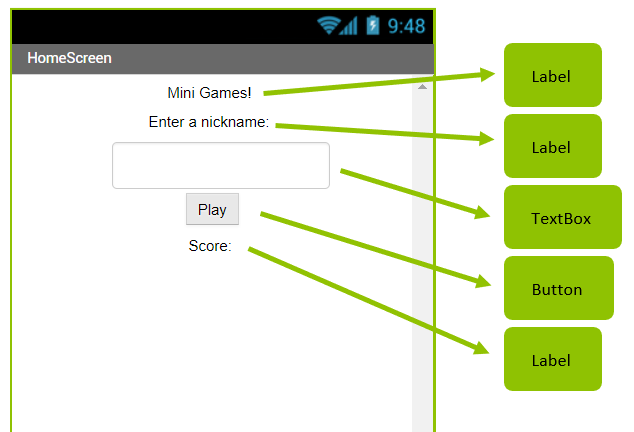
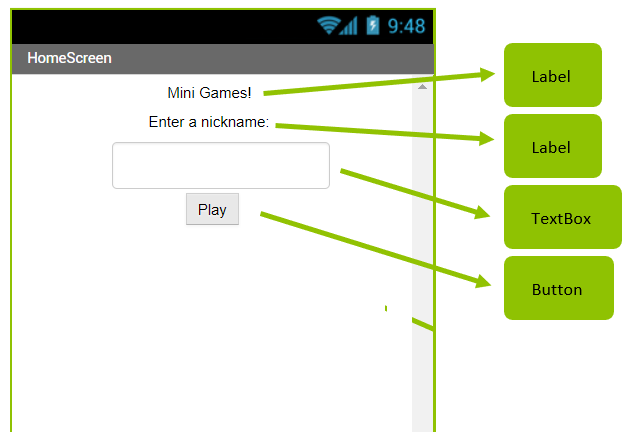
Corrected some layout, gramatical, and spelling mistakes.

diff --git a/en/wrapping-up.md b/en/wrapping-up.md
@@ -1,21 +1,21 @@
-1. You have all the control of 
-your app working! Now it is super easy for you to add your own minigames. I'll walk you thorough adding one more game then you can try and make your own minigames! 
- 
+1. You have all the control of
+your app working! Now it is super easy for you to add your own minigames. I'll walk you thorough adding one more game then you can try and make your own minigames!
+
 2. Create a "Minigame3" screen (for your fourth game change 3 to 4 and so on with every game you make).
 
 3. The game will see if the player can guess how much is being added to a number. So you need to add 2 labels, a TextBox, and a button in the **Designer**. here's how mine looks:
 
  ![](/assets/lastminigame.png)
 
-4. Swap over to the blocks viewer. Using a for each loop will make this game easier to code. A for each loop repeats the same code until its stopped. This is useful for us lazy programmers! 
+4. Swap over to the blocks viewer. Using a for each loop will make this game easier to code. A for each loop repeats the same code until its stopped. This is useful for us lazy programmers!
 
-5. Use a `when Minigame3.Initialize` block and put an `initialize local [name] to` block in it. Set the variables name to "numbersText".
+5. Use a `when Minigame3.Initialize` block and put an `initialize local [name] to` block in it. Set the variables name to "numbersText", and attach an empty `""` block to it.
 
 6. Now add a `for each [number] from` block (it's in **Control**). The for block has 3 pieces. The first is what number to start at, the second is how high the loop will count before it stops, and the last is how much the loop goes up by every time (this is what your player needs to guess). Set the first block to 0, the next to 10, and the last to 2:
 
   ![](/assets/forloop.png)
 
-7. Now inside the for loop you can actually do something cool! Use the `set [numbersText] to` block. You're going to set it to the previous numbersText + a space (" ") + the number (this comes from the for loop. 
+7. Now inside the for loop you can actually do something cool! Use the `set [numbersText] to` block. You're going to set it to the previous numbersText + a space (" ") + the number (this comes from the for loop.
 
 8. Now you just got to set the label's text to the `get numbersText` block and everything should look like this:
 
@@ -25,21 +25,16 @@ your app working! Now it is super easy for you to add your own minigames. I'll w
 
   ![](/assets/finalminigamewinorlose.png)
 
-10. Just go back to Screen1 and make sure the `initialize [numberOfGames] to` block is set to the number of games you have (3 right now)! 
+10. Just go back to Screen1 and make sure the `initialize [numberOfGames] to` block is set to the number of games you have (3 right now)!
 
 11. Do you see how easy it was to add a game? Try some of these ideas for games:
-  
+
   * First try to think of a game yourself (those are always more fun).
-  
-  * Change up the list minigame. Try to make the game select a random item in the list, tell the layer to click it, and see if the player picked the right choice.
-  
+
+  * Change up the list minigame. Try to make the game select a random item in the list, tell the player to click it, and see if the player picked the right choice.
+
   * Play around with other **Media** options. You can have the player take a picture of themselves with the camera blocks.
-  
+
   * See if the player can tap a button 5 times in a second.
-  
+
   * You can always make up your own games. Don't be afraid to get silly and try putting some blocks together!
-  
-
-
-
-  

diff --git a/en/making-a-minigame.md b/en/making-a-minigame.md
@@ -10,22 +10,26 @@
 
 5. Now the minigame just needs to decide if the player won or lost. If the player records a sound before the clock timer goes off they win! If they don't...they lose.
 
-6. Drag two `when [button].Click` blocks onto the screen. 
+6. Drag two `when [button].Click` blocks onto the screen.
 
-7. Then from the **SoundRecorder** put the `call SoundRecorder1.Start` in your "record" button. To make the stop button visible, use the `set [Button2].[Visible] to` from **Button2**.
+7. Then from the **SoundRecorder** put the `call SoundRecorder1.Start` in your "record" button. To make the stop button visible, get the `set [Button2].[Visible] to` from **Button2** and attach it to a `True` block.
 
 8. For the "Stop" button add the `set [Clock1].TimerEnabled to` with the `[false]` block from **Logic**. Use the `call [SoundRecorder1].Stop` (from **SoundRecorder1**) to stop the recording. Then all you need to do is use the `close screen with value result` block and use the **Text** "won".
 
-9. From the **Clock1** blocks get the `when [Clock1].Timer` and put the `close screen with value result` and the **Text** "lost". To make sure the recordings stopped add the `call [SoundRecorder1].Stop` here too. 
+9. From the **Clock1** blocks get the `when [Clock1].Timer` and put the `close screen with value result` and the **Text** "lost". To make sure the recordings stopped add the `call [SoundRecorder1].Stop` here too.
 
    Your blocks should look something like this:  
-   
+
    ![](/assets/soundrecordingminigame.png)
 
-10. If you want to try the minigame out now is just add the `set [Label1].Text to` block before you close the screen. add a the **Text** "won" or "lost" to the end of the block. Here's what mine looks like:
+10. If you want to try the minigame out now just add two `set [Label1].Text to` blocks before you close the screen. Add the **Text** "won" and the **Text** "lost" to the appropriate block. Here's what mine looks like:
 
- ![](/assets/testingminigame.png)
+  ![](/assets/testingminigame.png)
 
- Try out your game now! The text at the top of the screen will change and tell you if you won or lost!
+11. Brilliant! If you want to try the game out now you need to do one more thing. Go back to the **HomeScreen** and right click on the `close screen with value result` block. The click **Add comment**. Programmers often use this to make the computer ignore a bit of code.
 
+   ![](/assets/addingAComment.png)
 
+12. Instead we want to show your new minigame. Just add the `open another screen screenName` block and attach it to a `""` block with "minigame1" in it.
+
+13. Great, try out your game now! The text at the top of the screen will change and tell you if you won or lost!

diff --git a/en/a-home-screen.md b/en/a-home-screen.md
@@ -1,6 +1,6 @@
-1. A **Home Screen** can display information to your players. This can also be called the start or main screen. You can create your own home screen by add a new screen and naming what you like \(I chose "HomeScreen"\).
+1. A **Home Screen** can display information to your players. This can also be called the start or main screen. You can create your own home screen by adding a new screen and naming what you like \(I chose "HomeScreen"\).
 
-2. Lets put some of your skills from the first tutorial to the test! Try adding three labels and a button to the screen. It would be neat if the first label was the name of your app!
+2. Lets put some of your skills from the first tutorial to the test! Try adding two labels and a button to the screen. It would be neat if the first label was the name of your app!
 
    Note: I like my home screen to be centered, so everything isn't on the left. You can do this too by clicking on your screen in the **Components** menu then under **Properties** switch **AlignHorizontal** to _Center: 3_.
 
@@ -30,8 +30,12 @@
 
       That's it! You just stored the users input in the "player" file.
 
-9. To finish up the block use the `call [TextBox].HideKeyboard` block from **TextBox1** and from **Control** the `close screen with value result` block. put a text block in with "HomeScreen". Like this:
+9. To finish up the block use the `call [TextBox].HideKeyboard` block from **TextBox1** and from **Control** the `close screen with value result` block. Attach a text block with "HomeScreen". Like this:
 
    ![](/assets/finishedhomescreen.png)
+
+10. Great! One last thing, you need to let the player see your homescreen. Currently the screen that App Inventor pens first is Screen1. To to open the home screen when the app starts you can use these blocks:
+
+   ![](/assets/screen1initialize.png)
 
 10. If you run your app on the emulator or your android device you can see what the home screen will look like.

diff --git a/en/a-list-minigame.md b/en/a-list-minigame.md
@@ -11,7 +11,7 @@
 6. Now use the empty **Text** to fill the empty spots on the list. Write words in them. I used different types of pets! This is what mine looks like:
 
     ![](/assets/petList.png)
-    
+
 7. In the **ListPicker** blocks there is a `when [ListPicker1].BeforePicking` block and a `set [ListPicker1].[Elements] to` block. Put the blocks together. Now all you need to do is put the `get []` **Variables** block on and then the **ListPicker** is ready! It will look like this:
 
     ![#](/assets/beforePicking.png)
@@ -27,5 +27,7 @@
 12. Here's what it should look like:
 
     ![](/assets/afterPicking.png)
-    
-13. To check if it's working you can do what you did in the last minigame, add the `set [label1].[Text] to` and `[won]` or `[lost]`. Try this minigame out!
+
+13. To check if it's working you can do what you did in the last minigame, add the `set [label1].[Text] to` and `[won]` or `[lost]`.
+
+14. You'll also need to change which screen opens when you click the "Play" button. Try and figure out how to do it! Then you can play your new minigame. 

diff --git a/en/procedures.md b/en/procedures.md
@@ -1,6 +1,6 @@
 1. The best way to make this app is by using a screen to control everything. Open Screen1 \(with the button on the top left\).
 
-2. The component this screen needs is a file **Storage**. Add one to the screen.
+2. This screen also needs the **File** component. Add one to the screen.
 
 3. Now, open up the blocks page for the screen. You're going to make your first procedure! A procedure is a bit of code that you can use with its "call" block. Most of the time coders will use these blocks so that they don't need to create the same code twice \(or even more\). These are the blocks we will use:
 
@@ -23,6 +23,3 @@
    ![](/assets/procedure.png)
 
    * Note: this is also how all these steps put together should look.
-
-
-
